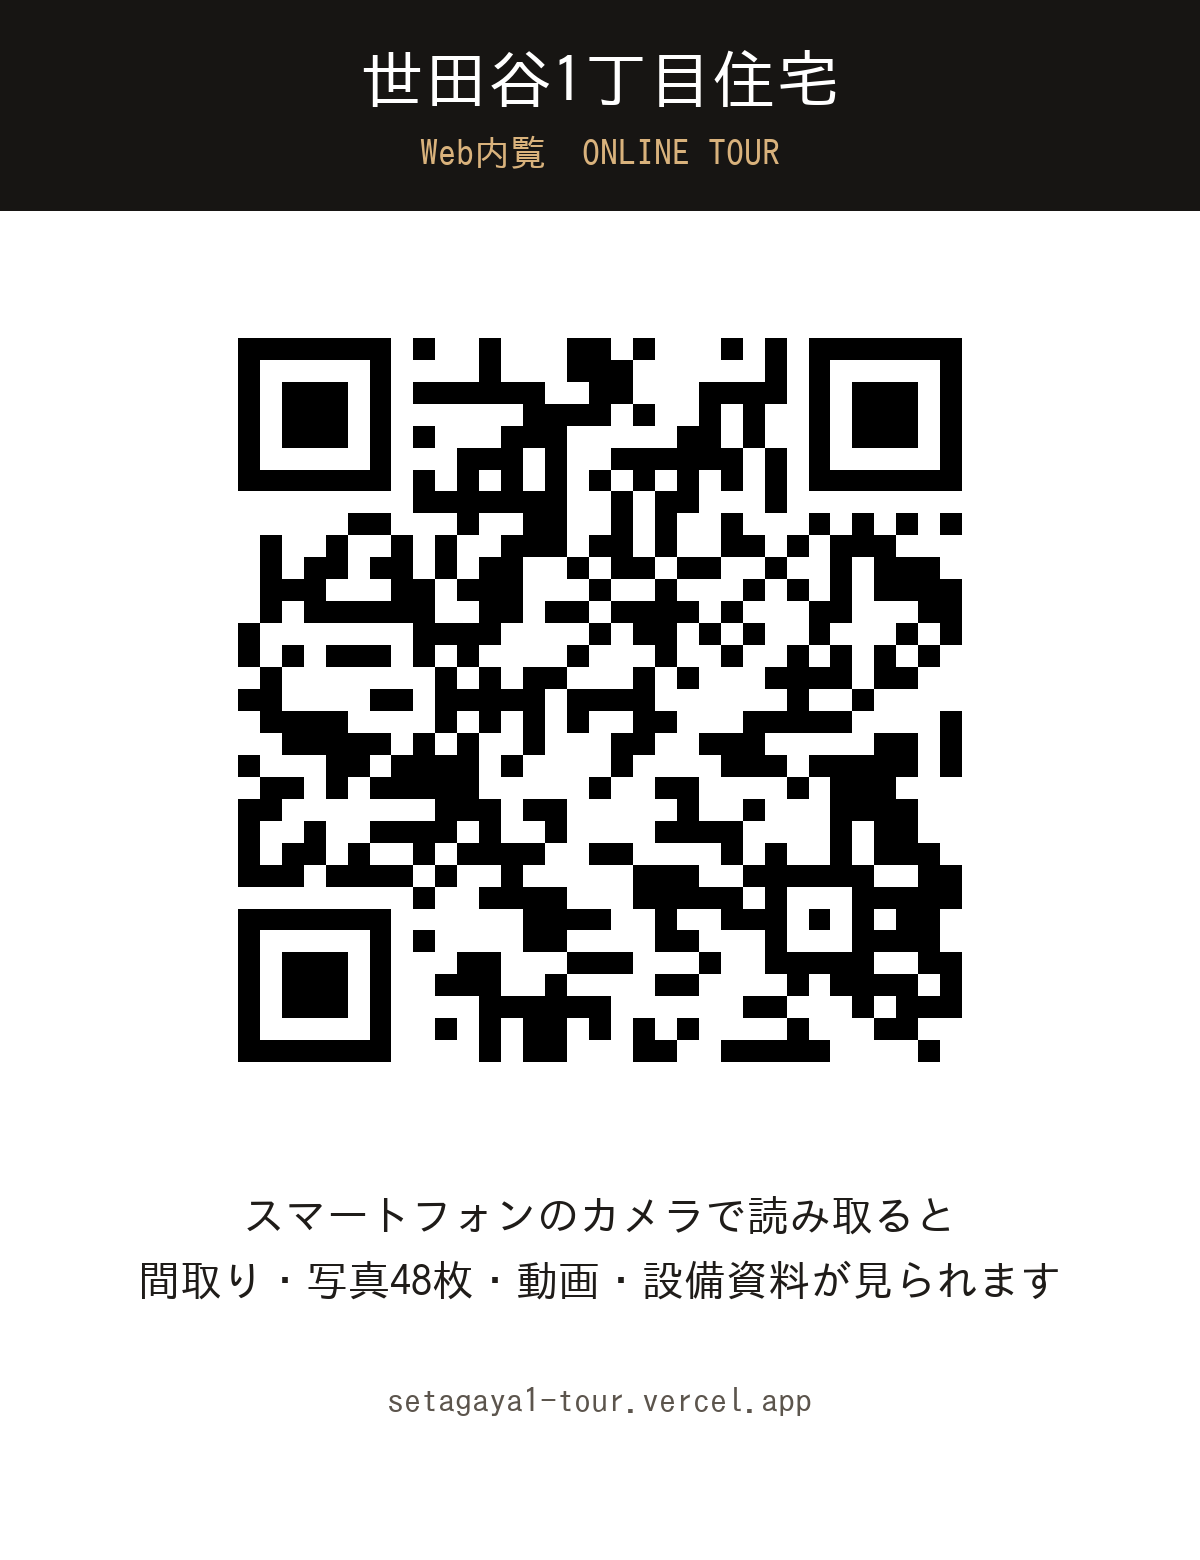
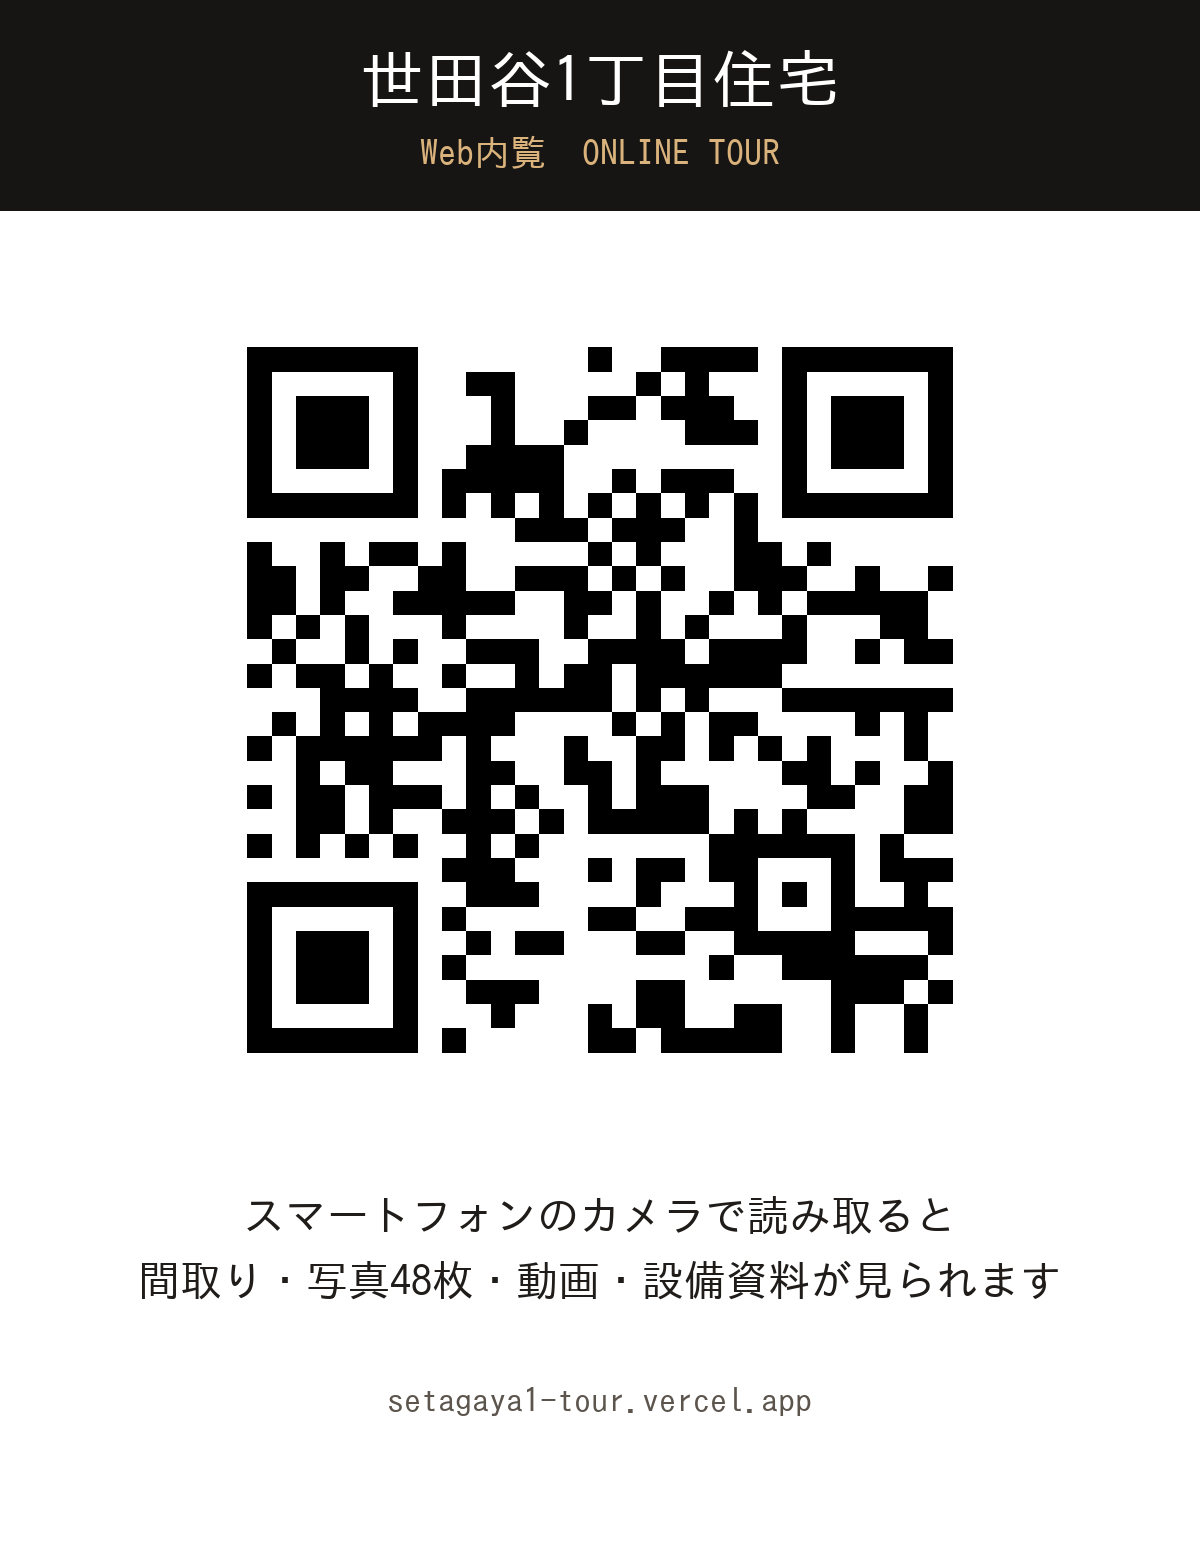
Use error correction M for the QR code
A 29x29 symbol has larger modules than the 33x33 Q/H version, so it
scans reliably when printed at flyer size or shown zoomed-out on screen.

Claude-Session: https://claude.ai/code/session_01Ne1dRJkBXZkQunYAZxFnQS

Changed region(s): [[0.185, 0.2154, 0.8017, 0.7077]]

diff --git a/tools/qr.py b/tools/qr.py
@@ -3,7 +3,9 @@
 Usage: python3 tools/qr.py <url> [out_dir]
 
 Follows common print guidance:
-  * error correction Q (~25%) so a scratched / creased flyer still scans
+  * error correction M (~15%, the usual choice for print): with this URL it
+    gives a 29x29 symbol, so each module is larger and the code still scans
+    when printed small or viewed zoomed-out on a screen
   * 4-module quiet zone, pure black on white (no inversion, no logo)
   * vector SVG / PDF for the printer, PNG for screens and office tools
   * every output is decoded again to prove it scans, including a copy
@@ -40,7 +42,7 @@ def decode(img):
 def main(url, out):
     out = Path(out)
     out.mkdir(parents=True, exist_ok=True)
-    qr = segno.make(url, error="q", micro=False, boost_error=True)
+    qr = segno.make(url, error="m", micro=False, boost_error=True)
     qr.save(out / "qr.svg", scale=10, border=4, dark="#000000", light="#ffffff")
     qr.save(out / "qr.pdf", scale=10, border=4, dark="#000000")
     size = qr.symbol_size(scale=1, border=4)[0]
